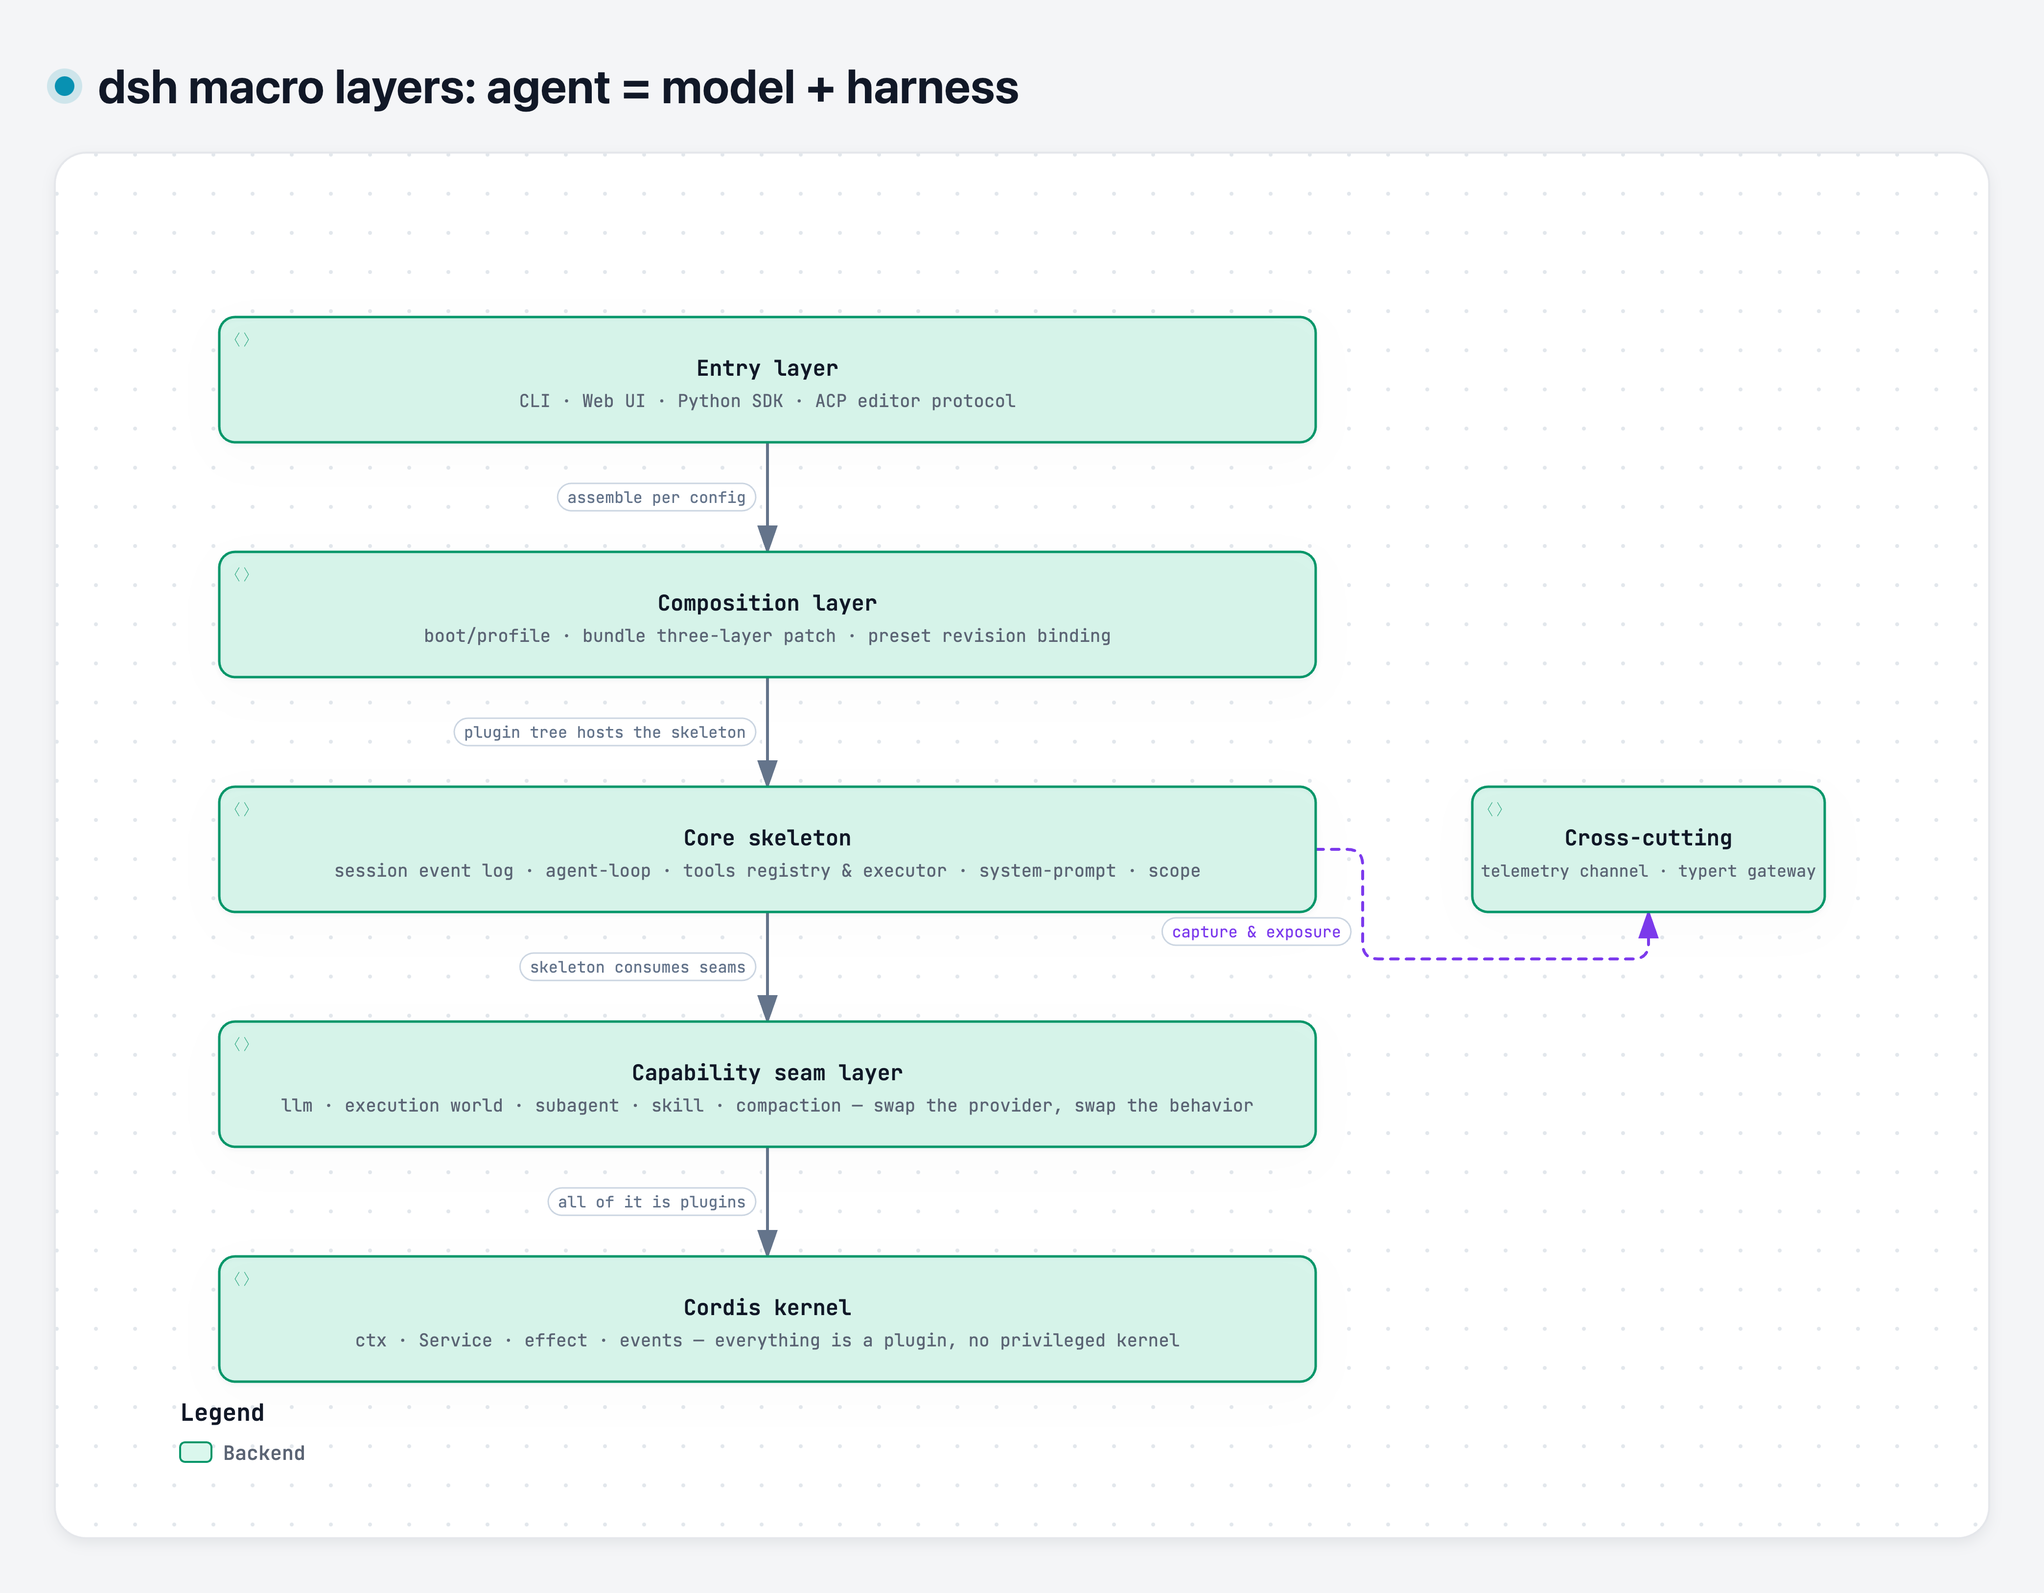
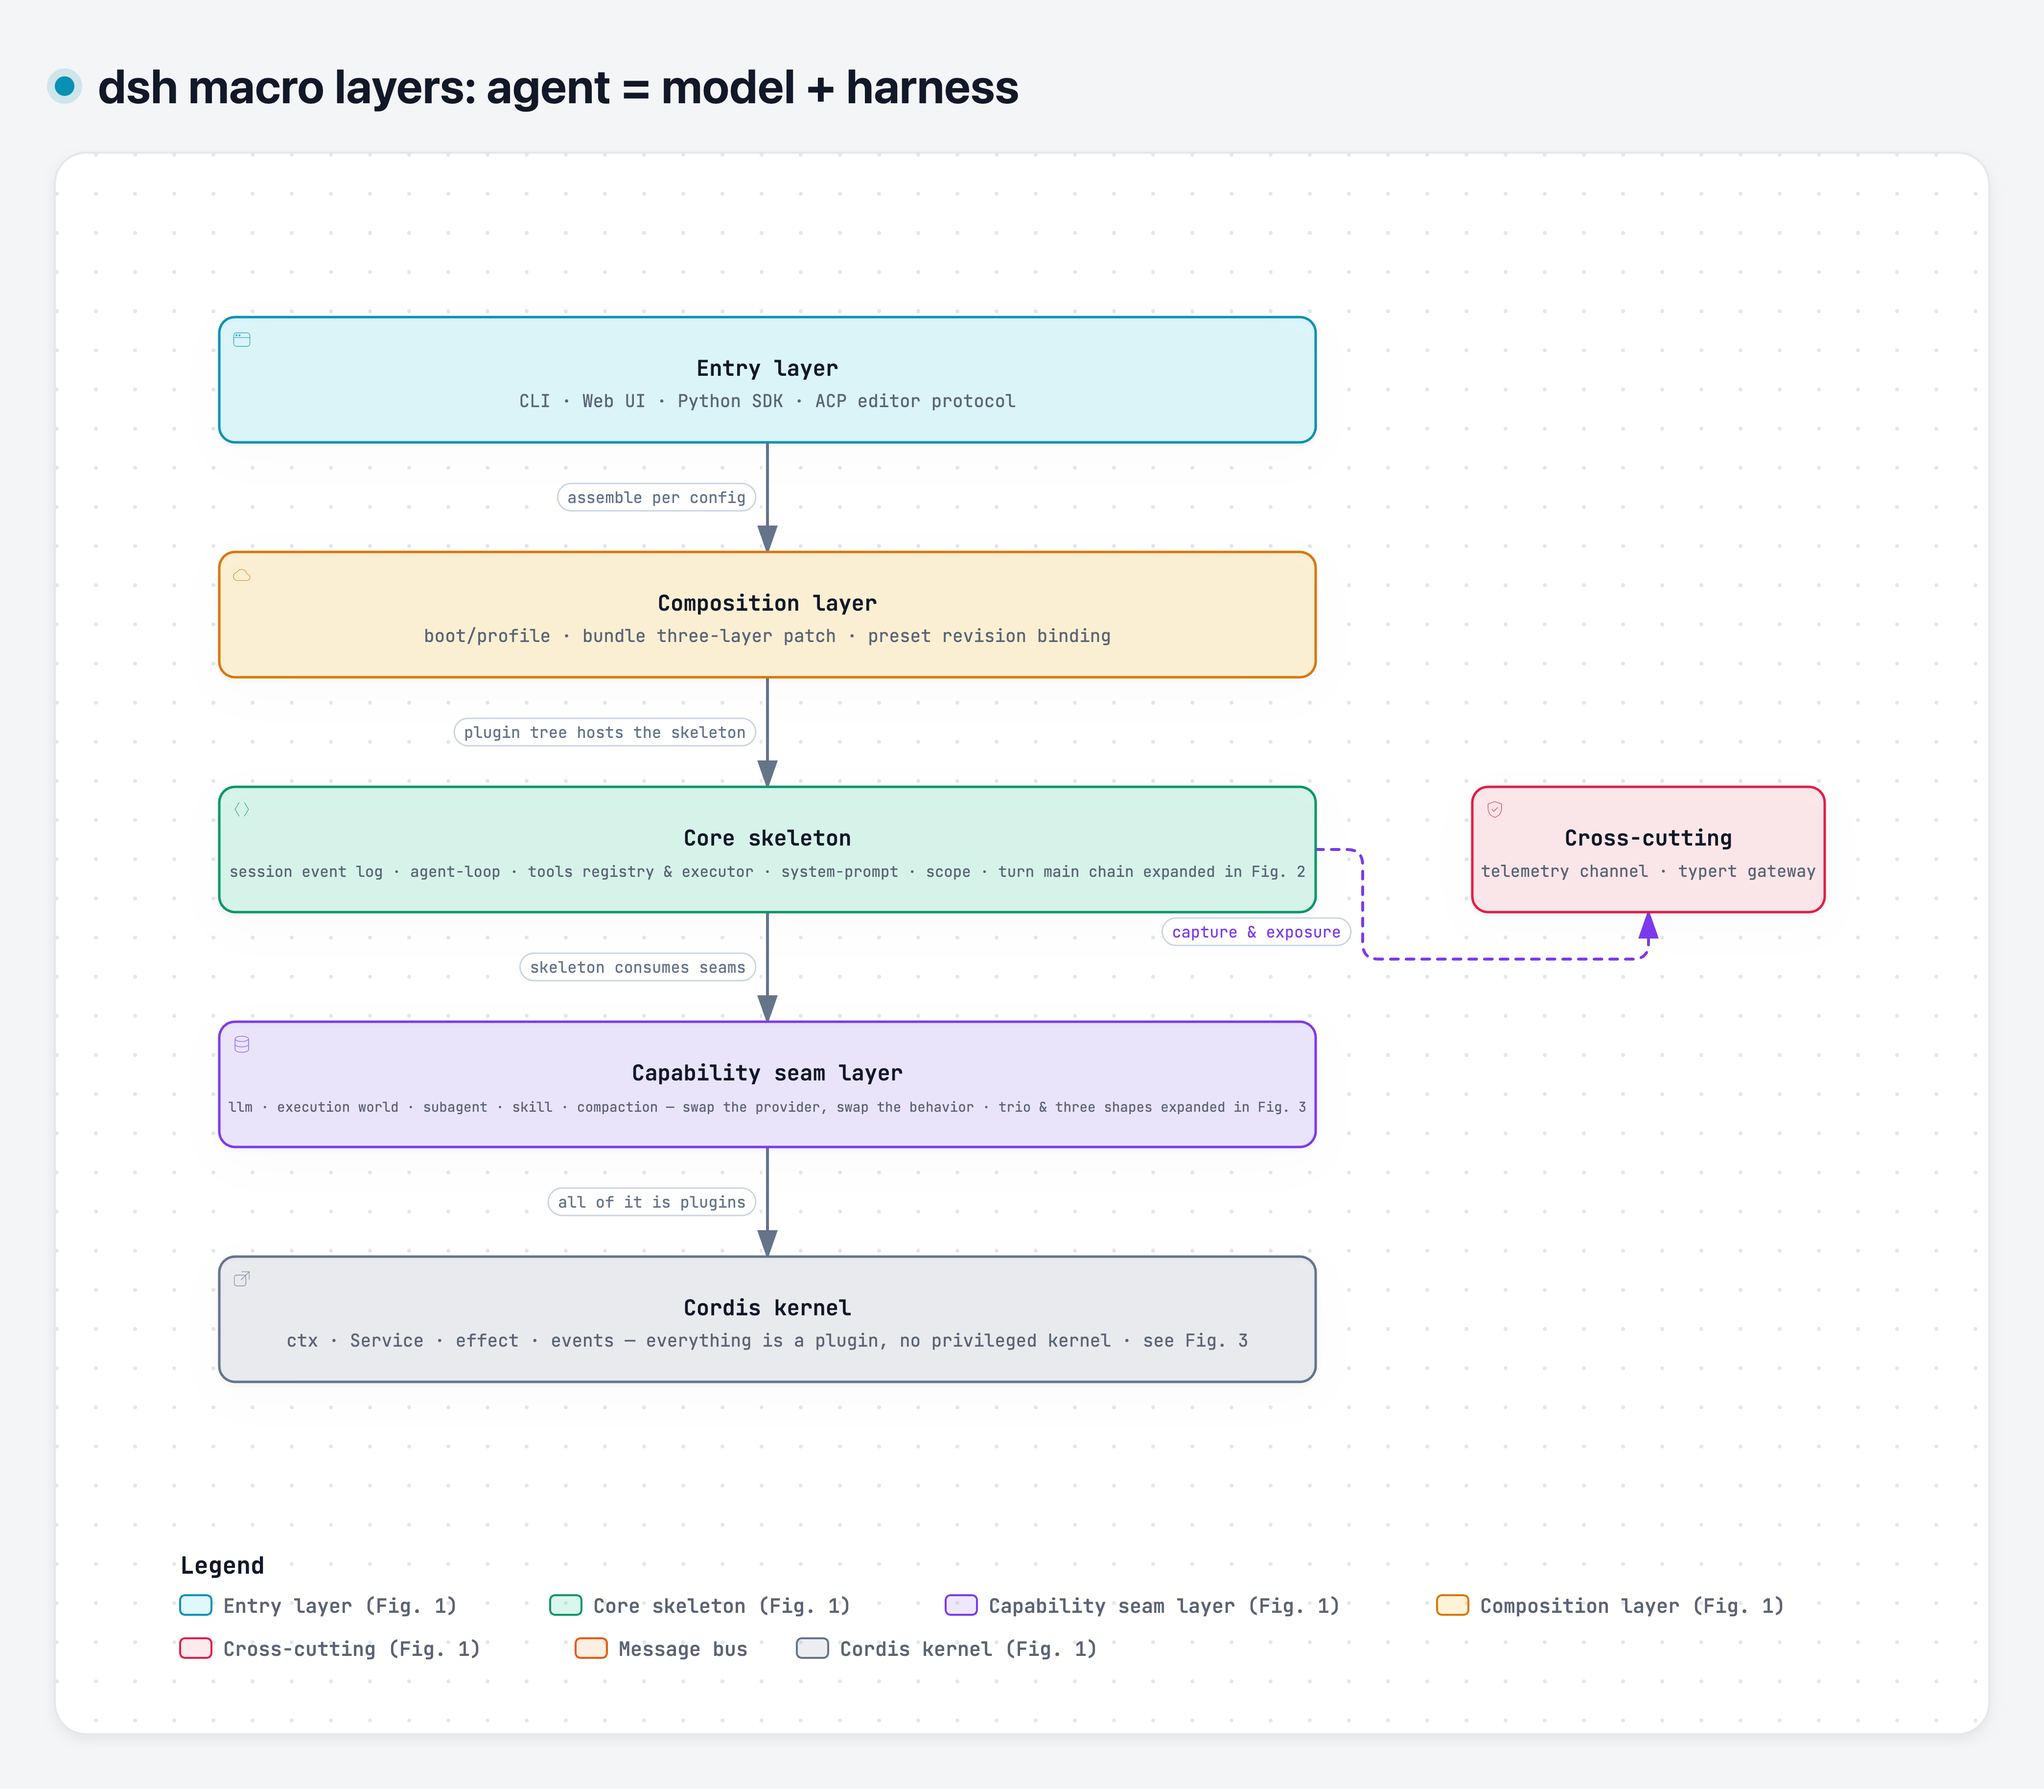
docs: 总览三图加层色对应——图二/图三作为图一相应块的展开
- 六层六色贯穿三图：入口=青、组合=琥珀、核心骨架=绿、能力 seam=紫、横切=玫红、内核=灰
- 图 2 节点按「图 1 所属层」着色，标题与图例标明是图 1「核心骨架」的展开
- 图 3 三角色/三形态着 seam 层色、内核着内核色，标明是「能力 seam 层 + Cordis 内核」的展开
- 图 1 各层 sublabel 加展开指引（一轮主链见图 2 / 三角色见图 3），图例用层名而非类型名
- README 配注同步说明展开关系与颜色对应；六图重导出（0 诊断、零交叉）

diff --git a/README.md b/README.md
@@ -64,15 +64,15 @@ The most macroscopic layered view:
 
 ![dsh macro layers](assets/dsh-overview-1-layers_en.png)
 
-*Figure 1 · Macro layers*: five layers from entry down to the Cordis kernel, each assembled on the one below; the cross-cutting plane (telemetry channel, typert gateway) hangs beside the core skeleton.
+*Figure 1 · Macro layers*: five layers from entry down to the Cordis kernel, each assembled on the one below; the cross-cutting plane (telemetry channel, typert gateway) hangs beside the core skeleton. **One color per layer, and this palette carries through Figures 2 and 3**; the core skeleton and the seam layer are expanded in the next two figures.
 
 ![dsh turn main chain](assets/dsh-overview-2-turn_en.png)
 
-*Figure 2 · One turn's main chain*: entry → boot composition → agent-loop → per-turn assembly → model call → tools pipeline → durable log; compaction and telemetry are cross-cutting consumers, and the dashed edge is the next turn's read-back.
+*Figure 2 · One turn's main chain (expanding Fig. 1's Core skeleton)*: entry → boot composition → agent-loop → per-turn assembly → model call → tools pipeline → durable log; **node color = its owning layer in Fig. 1** (see legend); compaction and telemetry are cross-cutting consumers, and the dashed edge is the next turn's read-back.
 
 ![dsh seam trio and three shapes](assets/dsh-overview-3-seams_en.png)
 
-*Figure 3 · The seam trio and its three shapes*: Definition / Provider / Consumer all live on ctx; providers register in three shapes — method-call, whole-package replacement, and empty-definition.
+*Figure 3 · The seam trio and its three shapes (expanding Fig. 1's seam layer + Cordis kernel)*: Definition / Provider / Consumer all live on ctx; providers register in three shapes — method-call, whole-package replacement, and empty-definition; colors match Fig. 1.
 
 Four core design philosophies run through the entire tutorial: **everything is a plugin, no privileged kernel**; **agent = model + harness**; **registration is effect** (installation is reversible and rollback-able); **the seam triple-role** (swap one provider, swap the entire behavior).
 

diff --git a/README_zh.md b/README_zh.md
@@ -64,15 +64,15 @@ python3 ch02/code/main.py
 
 ![dsh 宏观分层](assets/dsh-overview-1-layers_zh.png)
 
-*图 1 · 宏观分层*：从入口到 Cordis 内核共五层，逐层拼装；横切面（遥测通道、typert 网关）挂在核心骨架侧旁。
+*图 1 · 宏观分层*：从入口到 Cordis 内核共五层，逐层拼装；横切面（遥测通道、typert 网关）挂在核心骨架侧旁。**每层一个颜色，该配色贯穿图 2、图 3**；核心骨架与能力 seam 层的展开见后两图。
 
 ![dsh 一轮 turn 的主链](assets/dsh-overview-2-turn_zh.png)
 
-*图 2 · 一轮 turn 的主链*：入口 → boot 组合 → agent-loop → 每轮装配 → 模型调用 → tools 管线 → 事件落盘的完整路径；compaction 与遥测是横切消费者，虚线为下一轮回读。
+*图 2 · 一轮 turn 的主链（图 1「核心骨架」的展开）*：入口 → boot 组合 → agent-loop → 每轮装配 → 模型调用 → tools 管线 → 事件落盘的完整路径；**节点颜色 = 它在图 1 的所属层**（图例回指）；compaction 与遥测是横切消费者，虚线为下一轮回读。
 
 ![dsh seam 三角色与三种形态](assets/dsh-overview-3-seams_zh.png)
 
-*图 3 · seam 三角色与三种形态*：Definition / Provider / Consumer 都活在 ctx 上；Provider 的注册形态分方法调用式、整包替换式、空定义式三种。
+*图 3 · seam 三角色与三种形态（图 1「能力 seam 层 + Cordis 内核」的展开）*：Definition / Provider / Consumer 都活在 ctx 上；Provider 的注册形态分方法调用式、整包替换式、空定义式三种；颜色同图 1。
 
 四条核心设计思想贯穿全教程：**一切皆插件，没有特权内核**；**agent = model + harness**；**注册即效应**（安装可逆回滚）；**seam 三角色**（换一个 provider 即换整体行为）。
 
